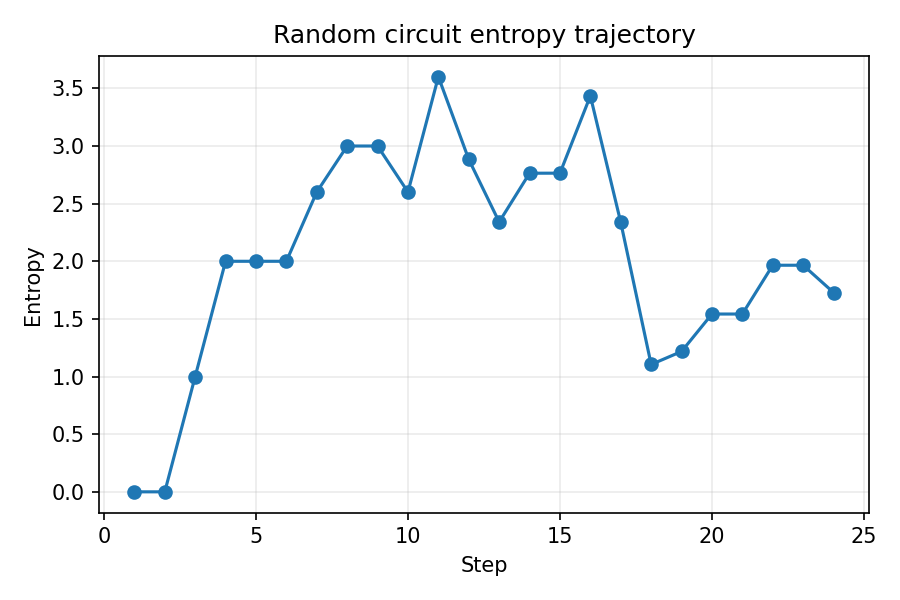
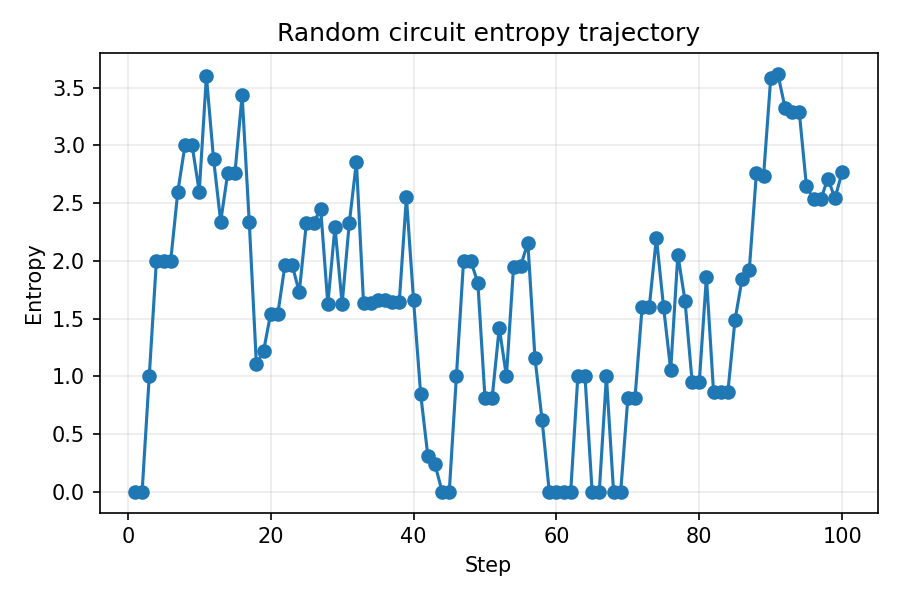
Update generated figures

diff --git a/python_workflows/experiments/run_random_circuit_demo.py b/python_workflows/experiments/run_random_circuit_demo.py
@@ -13,7 +13,7 @@ def main():
     output_dir.mkdir(parents=True, exist_ok=True)
 
     nqubits = 10
-    nsteps = 24
+    nsteps = 100
     measurement_probability = 0.1
     seed = 7
 
